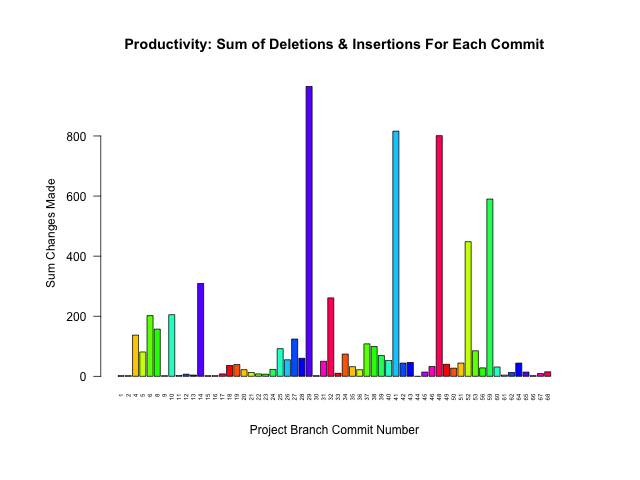
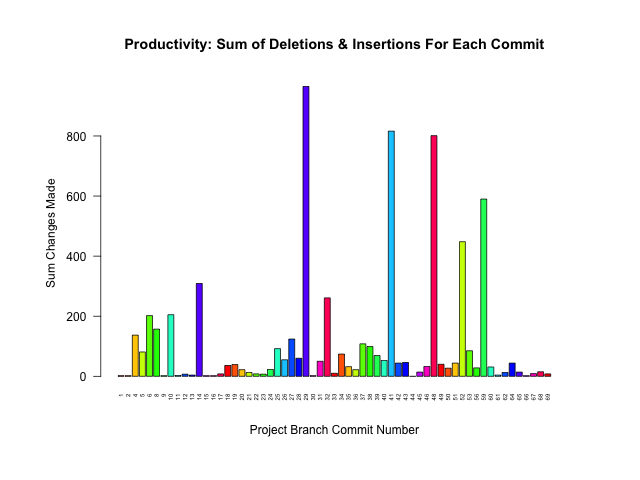
COMMIT #251

Changed region(s): [[0.1875, 0.1562, 0.875, 0.8438]]

diff --git a/README.md b/README.md
@@ -18,12 +18,12 @@ ProjectName::BranchName.data
 Project Name | Last Updated | # Commits | # Branches | Branches Merged
 :---|:---:|:---:|:---:|:---:
 [learn_some_C.Plus.Plus](https://github.com/pierremigeon/learn_some_C.Plus.Plus)                    |  2023-07-17  |  79   |  2  |  50%   (1/2)
-[commit_tracker](https://github.com/pierremigeon/commit_tracker)                                    |  2023-07-17  |  249  |  1  |  100%  (1/1)
+[FASTQ_examiner](https://github.com/pierremigeon/FASTQ_examiner)                                    |  2023-07-17  |  69   |  4  |  50%   (2/4)
+[commit_tracker](https://github.com/pierremigeon/commit_tracker)                                    |  2023-07-17  |  250  |  1  |  100%  (1/1)
 [Algorithms_practice](https://github.com/pierremigeon/Algorithms_practice)                          |  2023-07-17  |  13   |  5  |  80%   (4/5)
 [libft](https://github.com/pierremigeon/libft)                                                      |  2023-06-05  |  30   |  2  |  50%   (1/2)
 [ft_printf](https://github.com/pierremigeon/ft_printf)                                              |  2023-06-01  |  37   |  2  |  100%  (2/2)
 [minishell](https://github.com/pierremigeon/minishell)                                              |  2023-05-20  |  78   |  8  |  88%   (7/8)
-[FASTQ_examiner](https://github.com/pierremigeon/FASTQ_examiner)                                    |  2023-05-12  |  68   |  4  |  50%   (2/4)
 [test_non-fastforward_merge-push](https://github.com/pierremigeon/test_non-fastforward_merge-push)  |  2023-01-27  |  15   |  2  |  50%   (1/2)
 
 [comment]: # (This is where the table ends)

diff --git a/FASTQ_examiner_project/readme.md b/FASTQ_examiner_project/readme.md
@@ -1,2 +1,1 @@
-
-![test_image](https://github.com/pierremigeon/commit_tracker/blob/master/FASTQ_examiner_project/FASTQ_examiner::master.data_sum_barplot.png)
+![test_image](https://github.com/pierremigeon/commit_tracker/blob/master/FASTQ_examiner_project/FASTQ_examiner::table.data_sum_barplot.png)
